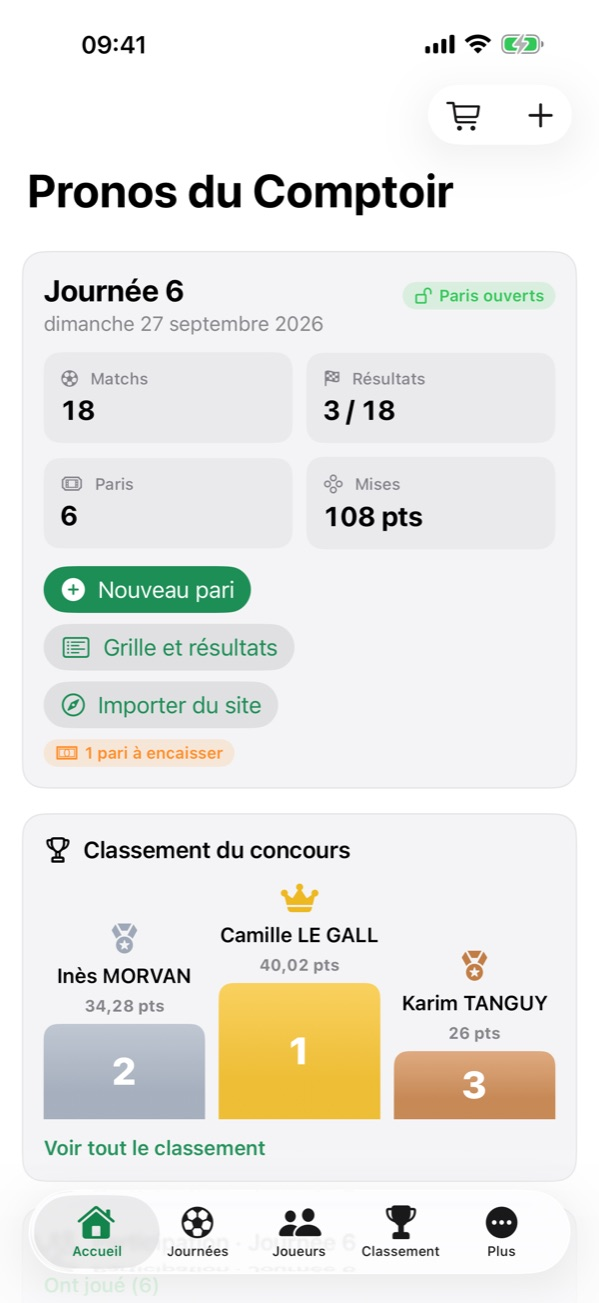
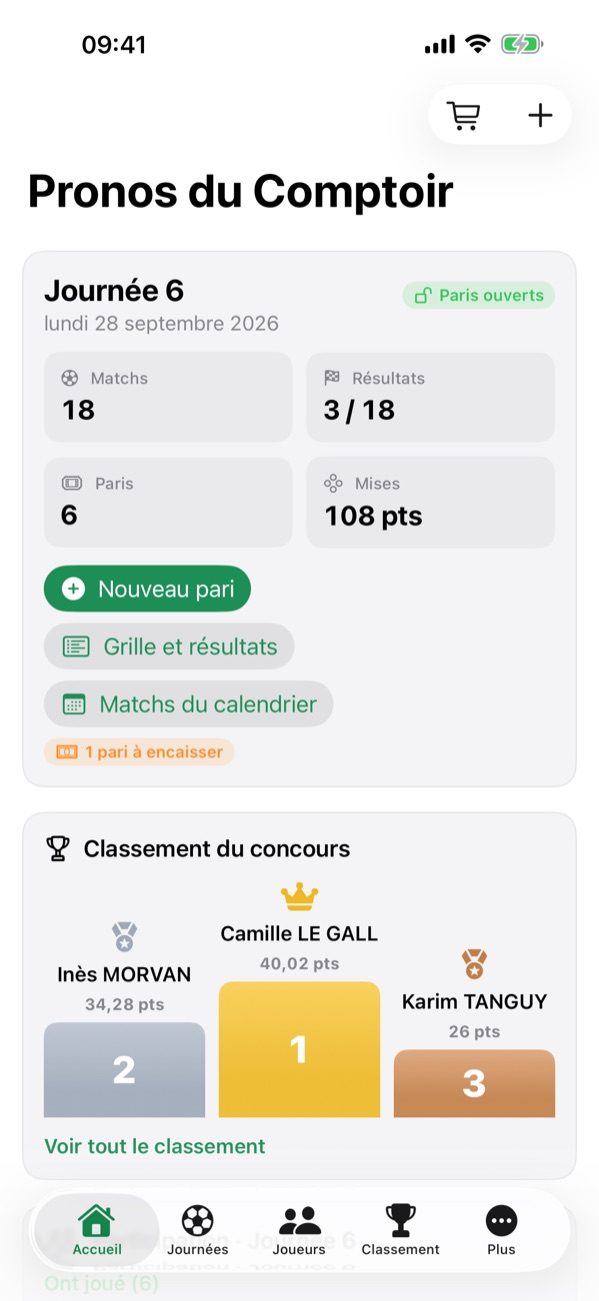
Images reprises des nouvelles captures (Matchs du calendrier)

diff --git a/index.html b/index.html
@@ -31,13 +31,13 @@
   </div>
 
   <div class="galerie">
-    <figure><img src="images/accueil.jpg" alt="L'accueil : la journée en cours, ses matchs, ses paris et les mises, puis le podium du concours." width="599" height="1303">
+    <figure><img src="images/accueil.jpg" alt="L'accueil : la journée en cours, ses matchs, ses paris et les mises, puis le podium du concours." width="599" height="1301">
       <figcaption>La journée et le podium</figcaption></figure>
-    <figure><img src="images/pari.jpg" alt="Un pari : on touche 1, N ou 2 sur chaque match, la cote totale et les gains potentiels se calculent en direct." loading="lazy" width="599" height="1303">
+    <figure><img src="images/pari.jpg" alt="Un pari : on touche 1, N ou 2 sur chaque match, la cote totale et les gains potentiels se calculent en direct." loading="lazy" width="599" height="1301">
       <figcaption>Un pari en quelques touches</figcaption></figure>
-    <figure><img src="images/cotes.jpg" alt="Les cotes de la journée : chaque cote se règle avec − et +, la marge de chaque match s'affiche, et les cotes peuvent être proposées d'après les classements." loading="lazy" width="599" height="1303">
+    <figure><img src="images/cotes.jpg" alt="Les cotes de la journée : chaque cote se règle avec − et +, la marge de chaque match s'affiche, et les cotes peuvent être proposées d'après les classements." loading="lazy" width="599" height="1301">
       <figcaption>Les cotes, d'un doigt</figcaption></figure>
-    <figure><img src="images/classement.jpg" alt="Le classement du concours : le podium, puis tous les joueurs par nombre de points." loading="lazy" width="599" height="1303">
+    <figure><img src="images/classement.jpg" alt="Le classement du concours : le podium, puis tous les joueurs par nombre de points." loading="lazy" width="599" height="1301">
       <figcaption>Le tableau d'honneur</figcaption></figure>
   </div>
 
